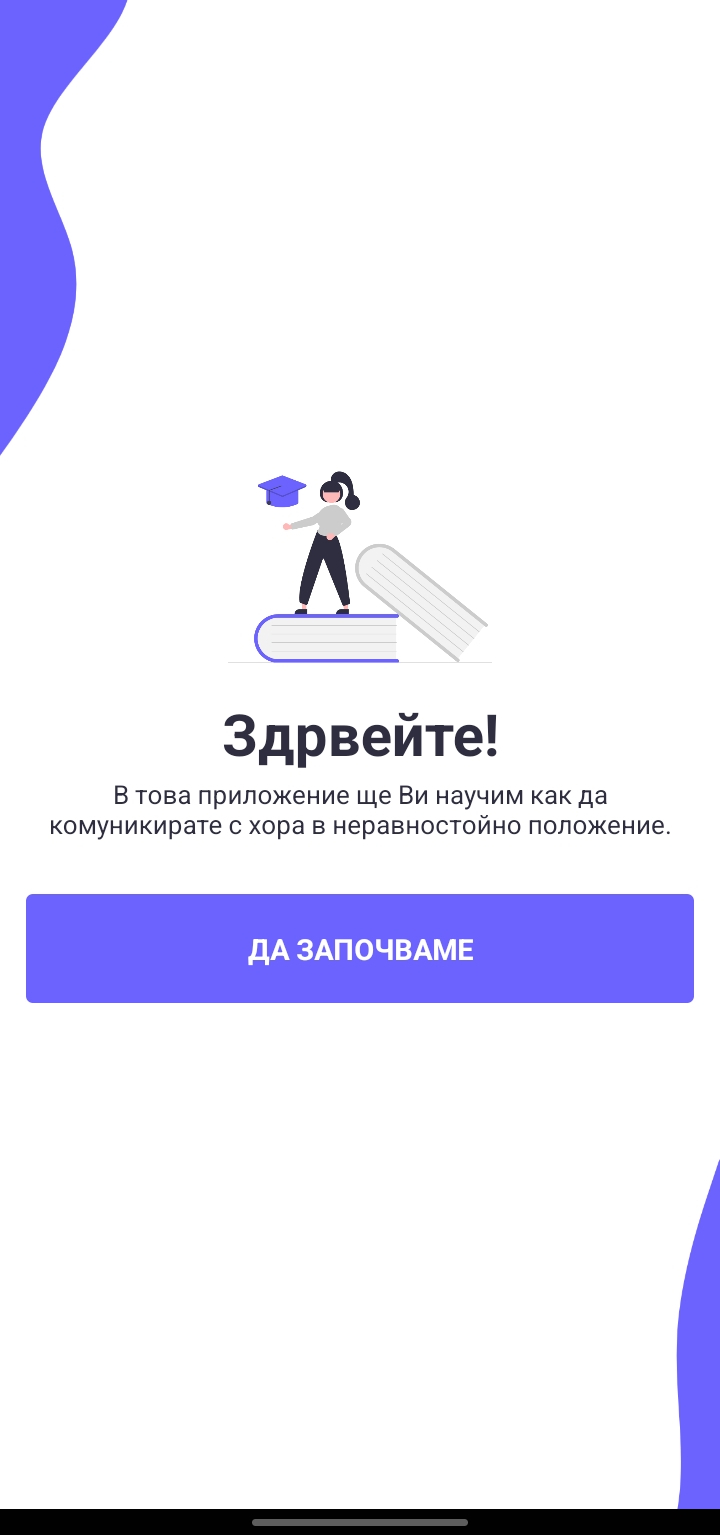
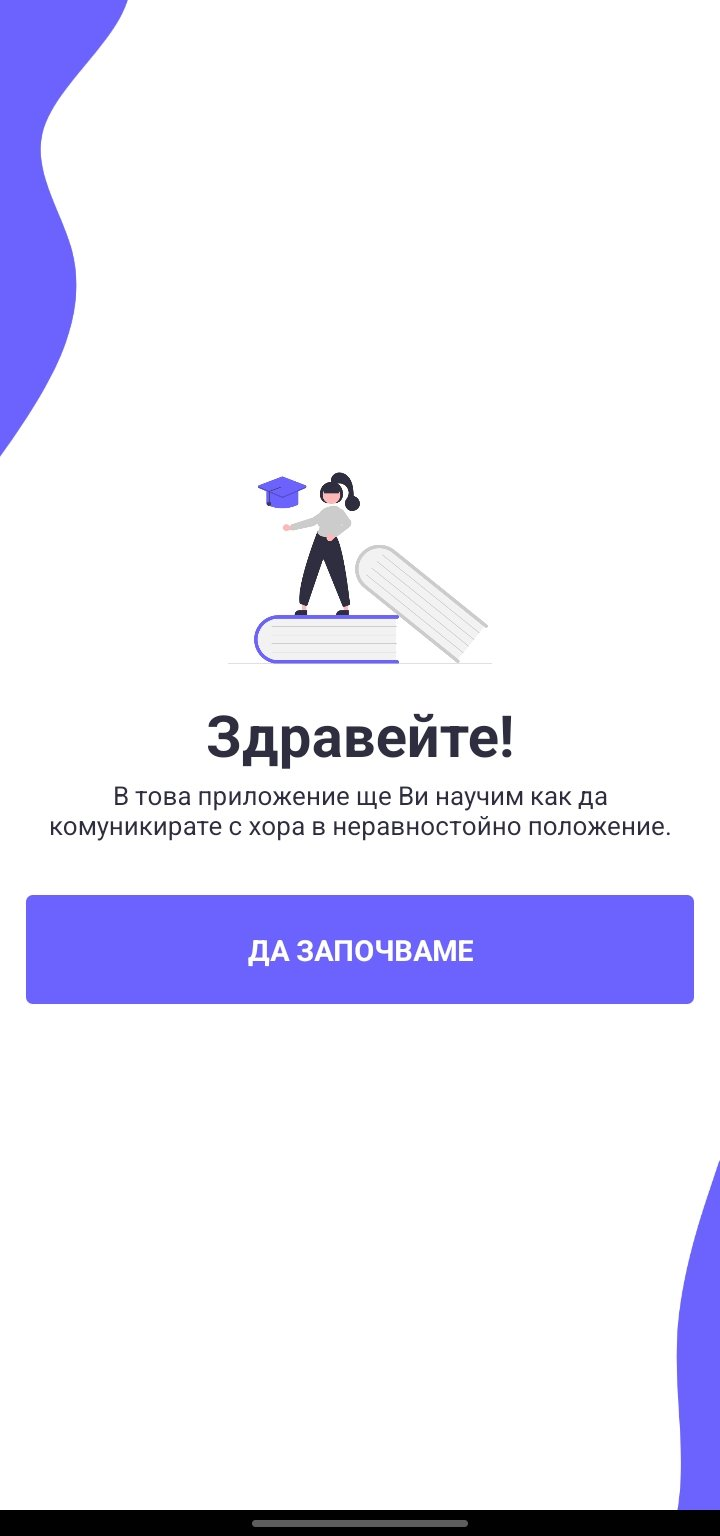
screen shot replaced

diff --git a/screens/welcome/index.js b/screens/welcome/index.js
@@ -64,7 +64,7 @@ function Welcome() {
           marginBottom: 2,
         }}
       >
-        Здрвейте!
+        Здравейте!
       </Text>
       <Text
         style={{
